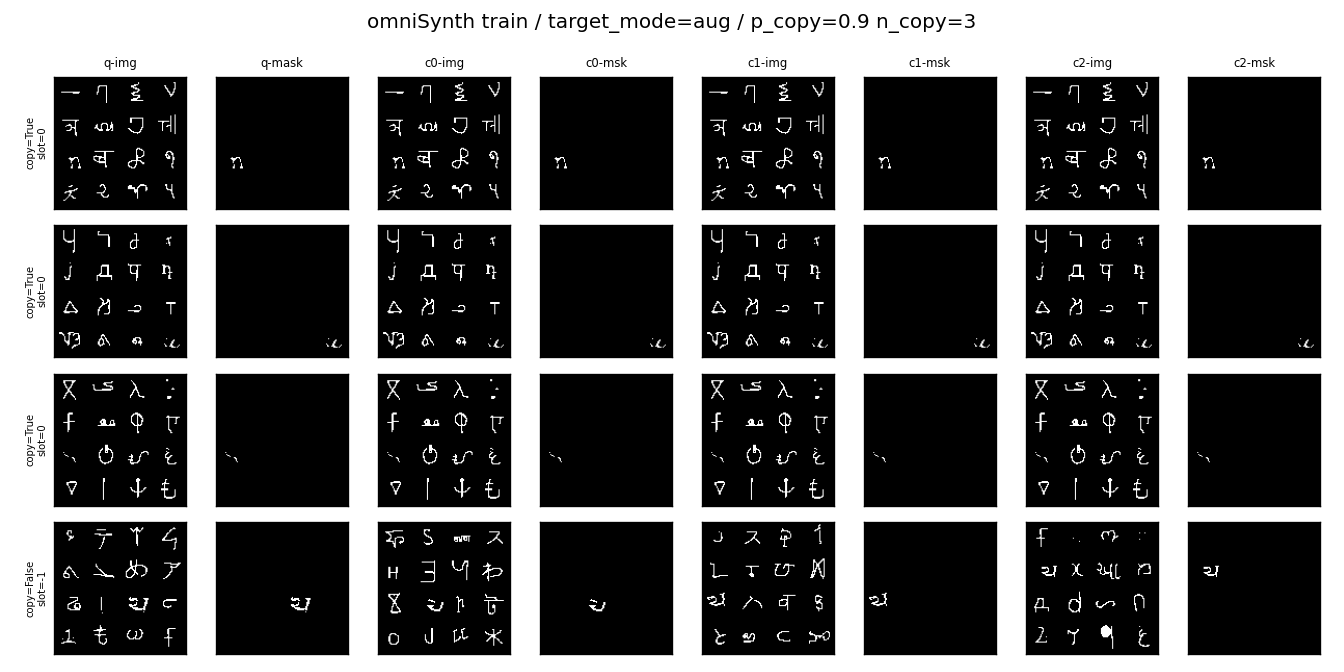
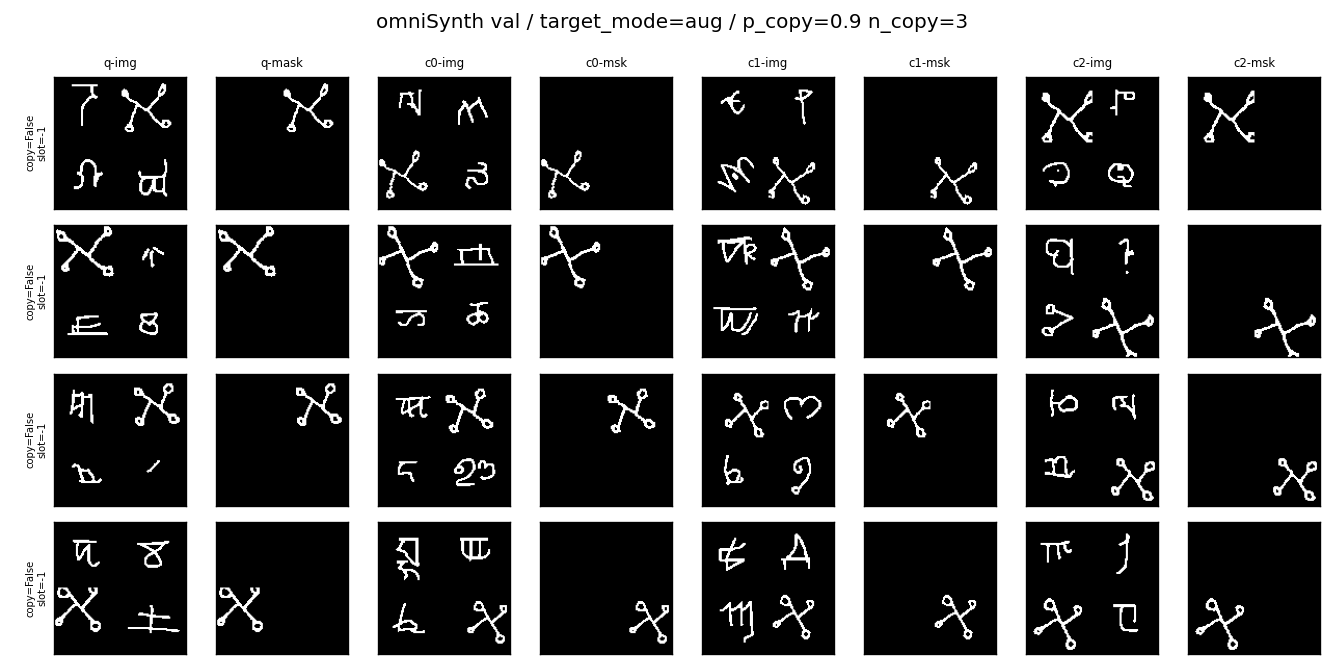
omnisynth : log target position during training

diff --git a/experiments/2d/train.py b/experiments/2d/train.py
@@ -206,10 +206,31 @@ def train_epoch(model, loader, optimizer, scheduler, cfg, epoch) -> tuple[float,
             float(topk_sum) / float(topk_cnt) if topk_cnt else float("nan"))
 
 
+def _fmt_transforms(transforms) -> str:
+    """One compact 'r..,s..,dx..,dy..' string per target placement (aug mode);
+    empty when the mode applies no per-placement jitter (identical/class)."""
+    if not transforms:
+        return ""
+    parts = []
+    for p in transforms:
+        if p is None:
+            parts.append("-")
+        else:
+            parts.append(f"r{p['rotate']:+.0f},s{p['scale']:.2f},"
+                         f"dx{p['dx']:+.2f},dy{p['dy']:+.2f}")
+    return " | ".join(parts)
+
+
+# Per-sample qualitative val log: target/context cell (row, col) positions, the
+# resolved target_mode, the per-placement aug transforms and the sample's Dice.
+SAMPLE_COLS = ["epoch", "dataset", "character", "target_mode", "target_pos",
+               "context_pos", "transforms", "dice"]
+
+
 @torch.no_grad()
-def validate(model, loader, topk_k: int = 16):
+def validate(model, loader, topk_k: int = 16, epoch: int = 0):
     """Returns (soft_ds, soft_label), (hard_ds, hard_label), (cos_ds, cos_label),
-    (topk_ds, topk_label) score dicts.
+    (topk_ds, topk_label) score dicts, plus a per-sample wandb.Table (SAMPLE_COLS).
 
     dice_ds_soft = threshold-free Dice of the prob map vs the pooled occupancy GT, at
     the model's (downsampled) logit res. dice = hard Dice (pred≥0.5 vs GT>0) at the
@@ -226,6 +247,7 @@ def validate(model, loader, topk_k: int = 16):
     cos_label: dict[str, list[float]] = defaultdict(list)
     topk_ds: dict[str, list[float]] = defaultdict(list)
     topk_label: dict[str, list[float]] = defaultdict(list)
+    table = wandb.Table(columns=SAMPLE_COLS)
     for batch in tqdm(loader, desc="val", leave=False):
         if batch is None:
             continue
@@ -240,6 +262,7 @@ def validate(model, loader, topk_k: int = 16):
         prob = torch.sigmoid(logit)
         prob_nat = _upsample_to(prob, lbl.shape[-2:])    # preds upscaled to original res (hard)
         native = logit.shape[-2:] == lbl.shape[-2:]      # native res → cossim redundant, skip
+        metas = batch.get("meta")
         for b in range(len(batch["dataset"])):
             key = f"{batch['dataset'][b]}/label_{int(batch['label_value'][b])}"
             s = soft_dice(prob[b, 0], target[b, 0])      # dice_ds_soft: downsampled soft
@@ -251,8 +274,18 @@ def validate(model, loader, topk_k: int = 16):
                 t = topk_overlap(prob[b, 0], target[b, 0], topk_k)  # top-k patch overlap
                 cos_ds[batch["dataset"][b]].append(c); cos_label[key].append(c)
                 topk_ds[batch["dataset"][b]].append(t); topk_label[key].append(t)
+            if metas is not None:                        # qualitative per-sample row
+                m = metas[b]
+                table.add_data(
+                    epoch, batch["dataset"][b],
+                    f"{m['alphabet']}/{m['class_id']}", m.get("target_mode", ""),
+                    str(m.get("target_cells", [])),      # target (row, col) positions
+                    str(m.get("context_cells", [])),     # per-context (row, col) positions
+                    _fmt_transforms(m.get("target_transforms")),
+                    h,                                   # native-res hard Dice
+                )
     return ((soft_ds, soft_label), (hard_ds, hard_label),
-            (cos_ds, cos_label), (topk_ds, topk_label))
+            (cos_ds, cos_label), (topk_ds, topk_label), table)
 
 
 @hydra.main(config_path="../../configs/experiment/2d", config_name="universeg_train",
@@ -324,7 +357,8 @@ def main(cfg: DictConfig):
 
         if epoch % cfg.train.get("eval_every", 1) == 0 or epoch == cfg.train.epochs - 1:
             ((soft_ds, soft_label), (hard_ds, hard_label),
-             (cos_ds, cos_label), (topk_ds, topk_label)) = validate(model, val_loader, topk_k)
+             (cos_ds, cos_label), (topk_ds, topk_label),
+             sample_table) = validate(model, val_loader, topk_k, epoch)
             # At native prediction res cossim is redundant with Dice and validate() returns
             # empty cos dicts → checkpoint on native hard Dice; otherwise on cossim, which is
             # scale-invariant and stays a real 0→1 signal where dice_ds_soft is pinned near
@@ -339,6 +373,7 @@ def main(cfg: DictConfig):
             summary.update(log_summary(hard_ds, hard_label, prefix="dice", metric_label="native"))
             mean_dice = summary.get(f"{metric}/mean", float("nan"))
             log.update(summary)
+            log["val/samples"] = sample_table
             tqdm.write(f"  [e{epoch}] train loss={loss:.4f}"
                        f"  val {metric}={mean_dice:.4f} top{topk_k}={summary.get(f'top{topk_k}/mean', float('nan')):.4f}"
                        f" ds_soft={summary.get('dice_ds_soft/mean', float('nan')):.4f}"

diff --git a/src/datasets/omniSynth/render.py b/src/datasets/omniSynth/render.py
@@ -13,7 +13,15 @@ from scipy.ndimage import rotate as nd_rotate, shift as nd_shift, zoom as nd_zoo
 
 
 def render_scene(rng, scene, grid, cell_size, target_sampler, distractor_sampler):
-    """Compose a grid scene. Returns (image float32 [H,W], mask float32 [H,W], k)."""
+    """Compose a grid scene. Returns (image float32 [H,W], mask float32 [H,W], k, info).
+
+    info carries per-scene provenance for logging/analysis:
+      - "k": number of target cells
+      - "target_cells": sorted list of target cell indices (row-major)
+      - "target_transforms": list aligned with target_cells; each entry is the
+        affine-jitter params dict (aug mode) or None (identical/class mode).
+    target_sampler may return a bare bitmap or a (bitmap, params) tuple; the latter
+    surfaces the per-placement transform. Distractor params are not recorded."""
     n_cells = grid * grid
     k = int(rng.integers(scene.k_min, scene.k_max + 1))
     k = max(1, min(k, n_cells))                       # clamp to [1, n_cells]
@@ -23,17 +31,22 @@ def render_scene(rng, scene, grid, cell_size, target_sampler, distractor_sampler
     H = W = grid * cell_size
     image = np.zeros((H, W), dtype=np.float32)
     mask = np.zeros((H, W), dtype=np.float32)
+    sorted_targets, transforms = [], []
     for cell in range(n_cells):
         r, c = divmod(cell, grid)
         y0, x0 = r * cell_size, c * cell_size
         if cell in target_cells:
-            bm = target_sampler(rng)
+            res = target_sampler(rng)
+            bm, params = res if isinstance(res, tuple) else (res, None)
             image[y0:y0 + cell_size, x0:x0 + cell_size] = bm
             mask[y0:y0 + cell_size, x0:x0 + cell_size] = bm
+            sorted_targets.append(cell)
+            transforms.append(params)
         else:
             bm = distractor_sampler(rng)
             image[y0:y0 + cell_size, x0:x0 + cell_size] = bm
-    return image, mask, k
+    info = {"k": k, "target_cells": sorted_targets, "target_transforms": transforms}
+    return image, mask, k, info
 
 
 def _zoom_to_size(img, scale, size):
@@ -51,17 +64,22 @@ def _zoom_to_size(img, scale, size):
 
 
 def affine_jitter(base, scene, rng):
-    """Per-placement rotate/scale/translate jitter of a base bitmap -> uint8 {0,1}."""
+    """Per-placement rotate/scale/translate jitter of a base bitmap.
+
+    Returns (bitmap uint8 {0,1}, params) where params records the sampled transform:
+    rotation (deg), scale (linear factor), and translation as a fraction of cell."""
     cell = base.shape[0]
     img = base.astype(np.float32)
     angle = rng.uniform(-scene.aug_rotate, scene.aug_rotate)
     img = nd_rotate(img, angle, reshape=False, order=1, mode="constant", cval=0.0)
     scale = 2.0 ** rng.uniform(-scene.aug_scale, scene.aug_scale)
     img = _zoom_to_size(img, scale, cell)
-    dy = rng.uniform(-scene.aug_translate, scene.aug_translate) * cell
-    dx = rng.uniform(-scene.aug_translate, scene.aug_translate) * cell
-    img = nd_shift(img, (dy, dx), order=1, mode="constant", cval=0.0)
-    return (img > 0.5).astype(np.uint8)
+    dy_frac = rng.uniform(-scene.aug_translate, scene.aug_translate)
+    dx_frac = rng.uniform(-scene.aug_translate, scene.aug_translate)
+    img = nd_shift(img, (dy_frac * cell, dx_frac * cell), order=1, mode="constant", cval=0.0)
+    params = {"rotate": float(angle), "scale": float(scale),
+              "dy": float(dy_frac), "dx": float(dx_frac)}
+    return (img > 0.5).astype(np.uint8), params
 
 
 def make_target_sampler(bank, class_id, scene, base_rng, mode=None):

diff --git a/src/datasets/omniSynth/test_render.py b/src/datasets/omniSynth/test_render.py
@@ -15,7 +15,7 @@ def test_shapes_and_k_range():
     scene = OmniSceneConfig(k_min=2, k_max=5)
     rng = np.random.default_rng(0)
     for _ in range(50):
-        img, mask, k = render_scene(rng, scene, GRID, CELL, _const_sampler(1), _const_sampler(0))
+        img, mask, k, _ = render_scene(rng, scene, GRID, CELL, _const_sampler(1), _const_sampler(0))
         assert img.shape == (GRID * CELL, GRID * CELL) and img.dtype == np.float32
         assert mask.shape == img.shape
         assert 2 <= k <= 5
@@ -25,7 +25,7 @@ def test_mask_marks_exactly_k_cells():
     # target sampler fills its cell with 1s; mask must equal the painted target cells.
     scene = OmniSceneConfig(k_min=3, k_max=3)
     rng = np.random.default_rng(1)
-    img, mask, k = render_scene(rng, scene, GRID, CELL, _const_sampler(1), _const_sampler(0))
+    img, mask, k, _ = render_scene(rng, scene, GRID, CELL, _const_sampler(1), _const_sampler(0))
     assert k == 3
     # exactly 3 of the 16 cells are fully masked, the rest empty
     cells_masked = 0
@@ -42,7 +42,7 @@ def test_mask_is_target_cells_not_distractors():
     # distractor sampler also paints 1s into the image, but must NOT be in the mask.
     scene = OmniSceneConfig(k_min=4, k_max=4)
     rng = np.random.default_rng(2)
-    img, mask, k = render_scene(rng, scene, GRID, CELL, _const_sampler(1), _const_sampler(1))
+    img, mask, k, _ = render_scene(rng, scene, GRID, CELL, _const_sampler(1), _const_sampler(1))
     assert img.sum() == GRID * GRID * CELL * CELL        # every cell painted
     assert mask.sum() == 4 * CELL * CELL                 # only 4 target cells masked
 
@@ -50,7 +50,7 @@ def test_mask_is_target_cells_not_distractors():
 def test_k_clamped_to_valid_range():
     scene = OmniSceneConfig(k_min=99, k_max=99)          # absurd -> clamp to n_cells
     rng = np.random.default_rng(3)
-    _, _, k = render_scene(rng, scene, GRID, CELL, _const_sampler(1), _const_sampler(0))
+    _, _, k, _ = render_scene(rng, scene, GRID, CELL, _const_sampler(1), _const_sampler(0))
     assert k == GRID * GRID
 
 
@@ -58,7 +58,7 @@ def test_affine_jitter_preserves_shape_and_binary():
     scene = OmniSceneConfig()
     base = np.zeros((CELL, CELL), dtype=np.uint8)
     base[4:12, 4:12] = 1
-    out = affine_jitter(base, scene, np.random.default_rng(4))
+    out, _ = affine_jitter(base, scene, np.random.default_rng(4))
     assert out.shape == (CELL, CELL) and out.dtype == np.uint8
     assert set(np.unique(out)).issubset({0, 1})
 

diff --git a/src/datasets/omniSynth/dataset.py b/src/datasets/omniSynth/dataset.py
@@ -120,7 +120,7 @@ class OmniSynthICLDataset(Dataset):
             return render_scene(rng, self.scene, self.scene.grid, self.cell_size,
                                 target_sampler, distractor_sampler)
 
-        t_img, t_seg, t_k = scene(rngs[0])
+        t_img, t_seg, t_k, t_info = scene(rngs[0])
         ctx = [scene(rngs[1 + i]) for i in range(self.context_size)]
 
         is_copy = False
@@ -131,9 +131,15 @@ class OmniSynthICLDataset(Dataset):
                 n = max(1, min(int(self.scene.n_copy), self.context_size))
                 slots = crng.permutation(self.context_size)[:n].tolist()
                 for j in slots:
-                    ctx[j] = (t_img.copy(), t_seg.copy(), t_k)   # exact copy of the query scene
+                    ctx[j] = (t_img.copy(), t_seg.copy(), t_k, t_info)  # exact copy of the query scene
                 is_copy = True
                 copy_slot = min(slots)
+
+        # Cell provenance for logging: report each target cell as its (row, col) grid
+        # position rather than the flat row-major index (grid = scene.grid).
+        grid = self.scene.grid
+        def _pos(cells):
+            return [tuple(int(v) for v in divmod(int(cell), grid)) for cell in cells]
 
         return {
             "image":       _to_img_tensor(t_img),
@@ -148,5 +154,8 @@ class OmniSynthICLDataset(Dataset):
                 "k_target": int(t_k),
                 "is_copy": bool(is_copy),
                 "copy_slot": int(copy_slot),
+                "target_cells": _pos(t_info["target_cells"]),          # [(row, col), ...]
+                "target_transforms": t_info["target_transforms"],       # list[dict|None]
+                "context_cells": [_pos(c[3]["target_cells"]) for c in ctx],
             },
         }

diff --git a/experiments/2d/synth/preview_omnisynth.py b/experiments/2d/synth/preview_omnisynth.py
@@ -5,8 +5,12 @@ configs/experiment/2d/synth/omniglot.yaml) so the preview matches what training
 sees. Copies are train-only, so --split defaults to train to make p_copy/n_copy
 visible; each row is annotated with is_copy / copy_slot.
 
+Any trailing `key=value` args are OmegaConf dotlist overrides on the loaded config
+(scene/diversity/sampling blocks), applied after --config is loaded.
+
 Run: .venv311/bin/python experiments/2d/synth/preview_omnisynth.py
      .venv311/bin/python experiments/2d/synth/preview_omnisynth.py --split val --mode class
+     .venv311/bin/python experiments/2d/synth/preview_omnisynth.py --split val scene.grid=2 scene.k_max=3
 """
 import argparse
 import sys; sys.path.insert(0, ".")
@@ -32,9 +36,17 @@ def main():
     ap.add_argument("--image_size", type=int, default=128)
     ap.add_argument("--n", type=int, default=4)
     ap.add_argument("--out", default="results/omnisynth_preview.png")
-    args = ap.parse_args()
+    args, overrides = ap.parse_known_args()
 
     cfg = OmegaConf.load(args.config)
+    # Any leftover `key=value` args are OmegaConf dotlist overrides on the loaded
+    # config, e.g. `scene.grid=2 scene.k_max=3 sampling.epoch_length=10`.
+    if overrides:
+        bad = [o for o in overrides if "=" not in o]
+        if bad:
+            ap.error(f"unrecognized arguments: {' '.join(bad)} "
+                     "(config overrides must be dotlist key=value, e.g. scene.grid=2)")
+        cfg = OmegaConf.merge(cfg, OmegaConf.from_dotlist(overrides))
     scene_kw = dict(cfg.scene)
     if args.mode is not None:
         scene_kw["target_mode"] = args.mode

diff --git a/docs/logs.md b/docs/logs.md
@@ -1,5 +1,6 @@
 # Change log
 
+- 2D trainer: qualitative per-sample val log (ported from the old universeg_train.py into the unified train.py). `validate` now builds a `wandb.Table` (`SAMPLE_COLS`: epoch, dataset, character, target_mode, target_pos, context_pos, transforms, dice) logged as `val/samples`; `_fmt_transforms` renders each aug placement as `r..,s..,dx..,dy..` (`-` / empty for identical/class). Needs per-sample provenance, so: `render_scene` now returns a 4th `info` dict (`target_cells` indices + aligned `target_transforms`) and `affine_jitter` returns `(bitmap, params)` with the sampled rotate/scale/dx/dy; `OmniSynthICLDataset` meta gains `target_cells`/`context_cells` as **(row, col) grid positions** (not flat indices — `divmod(cell, grid)`) plus `target_transforms`. instCopy (`is_copy`/`copy_slot`) kept alongside; copied context slots correctly report the query's cells. test_render.py updated for the 4-tuple/2-tuple returns. Verified: render tests pass, 1-epoch smoke run (train→val→table→ckpt) clean, copy vs non-copy context positions correct. The old train-Dice-monitoring part of universeg_train.py was NOT ported (train.py already has it, generalised with cossim/top-k).
 - 2D trainer: added top-k patch-recall metric (`top{k}`, k=`cfg.train.topk_k` default 16). Per sample, recall of the GT-positive patches within the k highest-valued predicted patches: |gt_pos ∩ topk(pred)| / |gt_pos|, where gt_pos = patches with GT>0 capped to k. Reaches 1.0 exactly when ALL true patches are in the model's top-k — denominator is the (sparse) positive count, not k, so a model that found every true patch isn't penalised for GT having < k positives. Purely rank-based on the pred side (threshold/scale-free), complements cossim. Low-res only: gated on the same `logit.shape != lbl.shape` condition as cossim (at native res a patch is a pixel), so it never fires for UniverSeg. `common.topk_overlap` (per-sample) + train `_topk_sum` (batched, on-device scatter/gather); logged for train+val (`train/top{k}`, `top{k}/*`). Verified batched==per-sample, perfect ranking=1.0 (incl. n_pos>k rows), miss-1-of-5=0.8, empty-GT rows skipped. Caveat: when patch count ≤ k (e.g. R=4 → 16 patches, k=16) pred top-k = all patches → recall trivially 1.0; only informative when R×R > k (e.g. R=16 → 256).
 - 2D trainer: log the full resolved Hydra config to wandb (`OmegaConf.to_container(cfg, resolve=True)`) instead of a hand-picked flat dict. All config (train.*, data.*, synth.*, arch.*, ...) is now captured as the single source of truth; removed the flat overlay + `scene`/`target_mode` helper vars that only fed it (no retro-compat kept). `ckpt_meta` unchanged — still saved into the checkpoint. Note: wandb keys are now nested (e.g. `train.lr`, `data.image_size`) rather than flat (`lr`, `image_size`); update any saved wandb filters/groupings accordingly.
 - 2D trainer: skip cossim at native prediction resolution. cossim only exists because at low logit res the soft/hard Dice targets collapse; when the logit is already at native res (UniverSeg → logit==GT res) it's redundant with Dice. `train_epoch`/`validate` now compute cossim only when `logit.shape[-2:] != lbl.shape[-2:]` (validate returns empty cos dicts). Checkpoint metric follows: `cossim` at low res, native hard `dice` otherwise (`metric` var; drives `val/best_{metric}` and the "Done." print). train/cossim + train postfix `cos` only shown when computed. So UniverSeg (native) now checkpoints on hard Dice; patchset (low-res) unchanged.

diff --git a/docs/EXPS.md b/docs/EXPS.md
@@ -1,9 +1,25 @@
-## 3_omnisynth_to_medical (30_06_2026)
-Does training on omnisynth help on medical tasks ? 
-1) when training universeg on omnisynth, what is the impact of starting from pretrained weights vs from scratch ? 
-training run pretrained : tidiane/patch_icl_2d_exps_train/5nwm0xn9
-training run from scratch : tidiane/patch_icl_2d_exps_train/gv48bp7k
-2) what is then the performance on biomedparse ? 
 
+# 6_patchset_cnn_2_lvls
+## Q : on omnisynth, is second level of patchset_cnn able to produce masks at full resolution ? 
+- Q1 : level 0 accuracy (resolution 16, omnisynth : 2x2 grid, 1 ctx)
+## R : 
 
-## 4_
+# 5_patchset_cnn_2_instcopy_effect 
+## Q : do tgt repetition helps generalization ? 
+experiments/2d/train.py --config-name patchset_cnn_train synth=omniglot data.context_size=1 synth.scene.grid=2 arch.resolution=16
+synth.scene.p_copy=0.9 : damymmfw  
+synth.scene.p_copy=0 : 
+## R : 
+
+# 4_weaknesses_universeg (03_07_26)
+## Q : when trained and eval on omnisynth, where does universeg fails ?
+## R : 
+
+# 3_omnisynth_to_medical (03_07_26)
+## Q : Does training on omnisynth generalize on medical tasks ? 
+- Q1 : when training universeg on omnisynth, what is the impact of starting from pretrained weights vs from scratch ? 
+experiments/2d/train.py synth=omniglot data.context_size=1 synth.scene.p_copy=0 
+train.pretrained=false : zj98g7yd
+train.pretrained=true : rsbifrsl
+- R1 : faster convergence when pretrained=false, 0.7 vs 0.6 after 10 epochs
+- Q2 :  what is then the performance on biomedparse ? 
